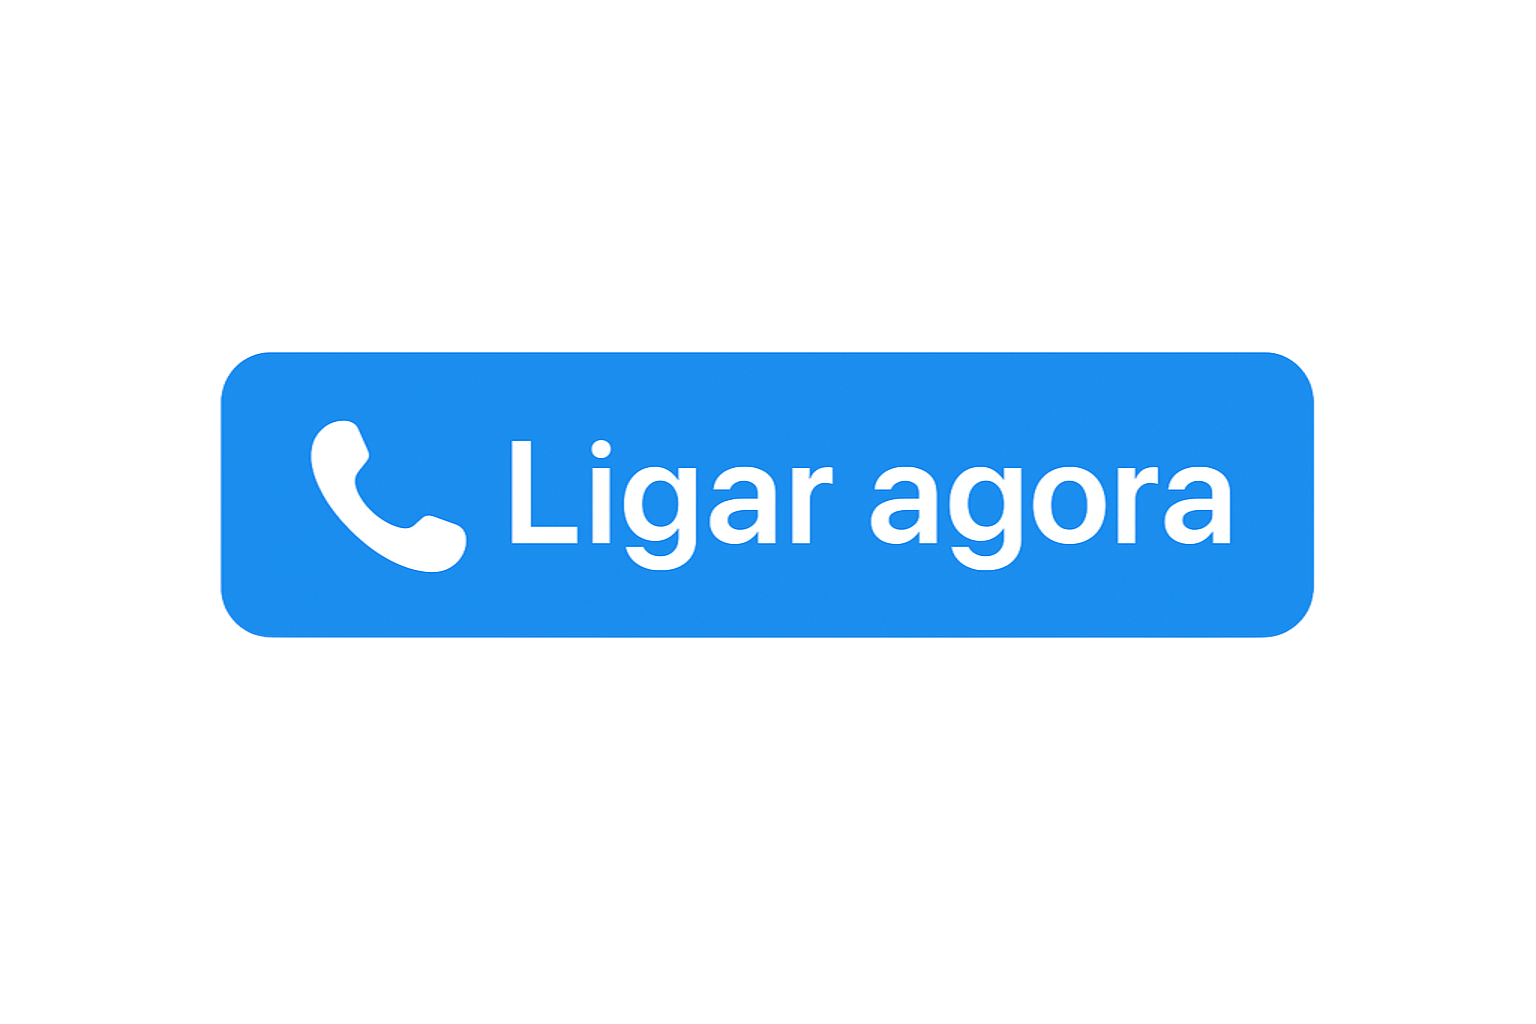
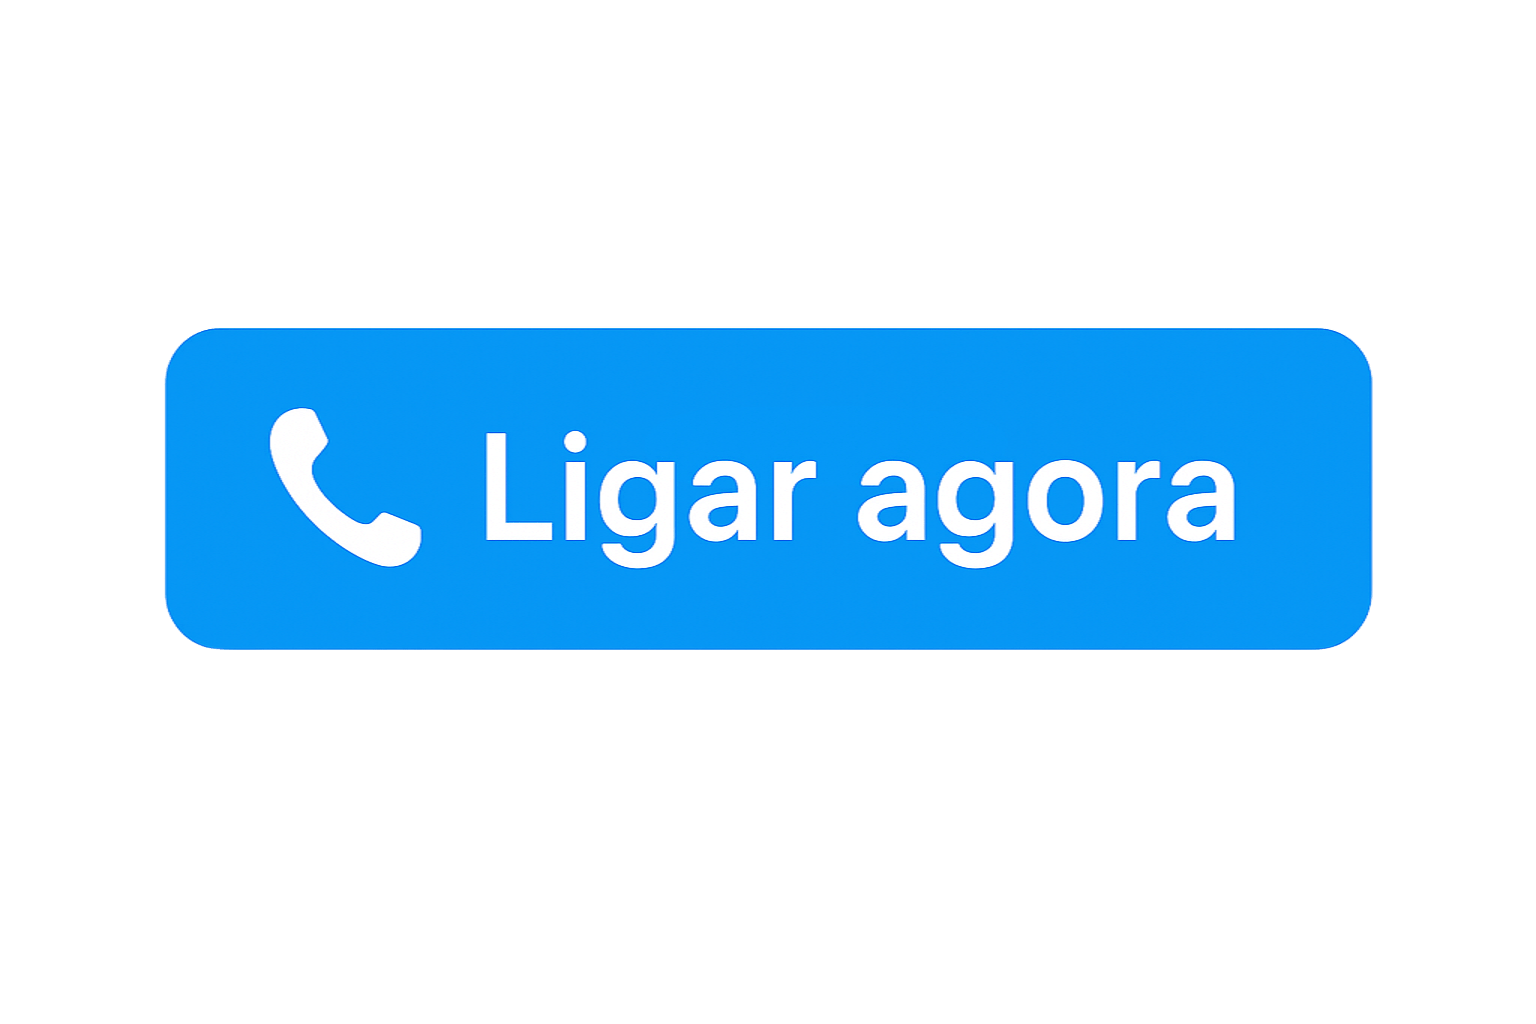
change telefone and whastapp image

Changed region(s): [[0.0938, 0.3125, 0.9062, 0.6562]]

diff --git a/fatura-digital.html b/fatura-digital.html
@@ -161,12 +161,15 @@
 
                     
                            <!-- TELEFONE -->
+<!-- TELEFONE -->
 <table role="presentation" cellspacing="0" cellpadding="0" border="0" style="display:inline-block; margin:0 8px;">
   <tr>
-    <td align="center" bgcolor="#3498db" style="border-radius: 4px;">
-      <a href="tel:+553431992222" style="display:block; text-decoration:none; color:#ffffff; font-weight:bold; font-size:14px; padding:10px 18px;">
-        <img src="https://img.icons8.com/ios-filled/16/ffffff/phone.png" alt="Telefone" width="16" height="16" style="vertical-align:middle; display:inline-block;" />
-        <span style="vertical-align:middle; margin-left:6px;">(34) 3199-2222</span>
+    <td align="center" style="border-radius: 4px;">
+      <a href="tel:+553431992222" style="display:block; text-decoration:none; font-weight:bold; font-size:14px;">
+        <img src="https://raw.githubusercontent.com/onnet02/modelos-email/main/imagens/telefone.png" 
+             alt="Telefone" 
+             width="150" 
+             style="display:block; border:0;" />
       </a>
     </td>
   </tr>
@@ -175,14 +178,17 @@
 <!-- WHATSAPP -->
 <table role="presentation" cellspacing="0" cellpadding="0" border="0" style="display:inline-block; margin:0 8px;">
   <tr>
-    <td align="center" bgcolor="#2ecc71" style="border-radius: 4px;">
-      <a href="https://wa.me/5534992492222" style="display:block; text-decoration:none; color:#ffffff; font-weight:bold; font-size:14px; padding:10px 18px;">
-        <img src="https://img.icons8.com/ios-filled/16/ffffff/whatsapp.png" alt="WhatsApp" width="16" height="16" style="vertical-align:middle; display:inline-block;" />
-        <span style="vertical-align:middle; margin-left:6px;">(34) 99249-2222</span>
+    <td align="center" style="border-radius: 4px;">
+      <a href="https://wa.me/5534992492222" style="display:block; text-decoration:none; font-weight:bold; font-size:14px;">
+        <img src="https://raw.githubusercontent.com/onnet02/modelos-email/main/imagens/whatsapp.png" 
+             alt="WhatsApp" 
+             width="150" 
+             style="display:block; border:0;" />
       </a>
     </td>
   </tr>
 </table>
+
 
 
 
